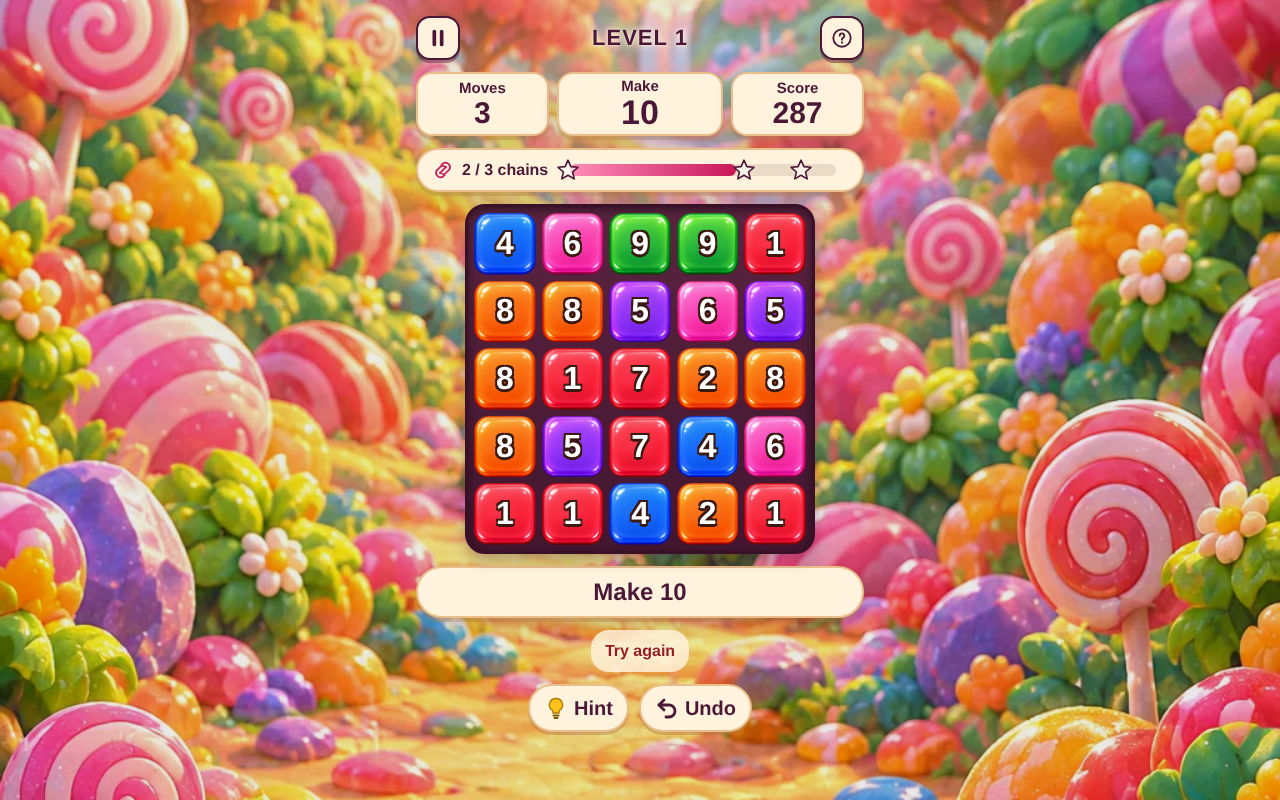
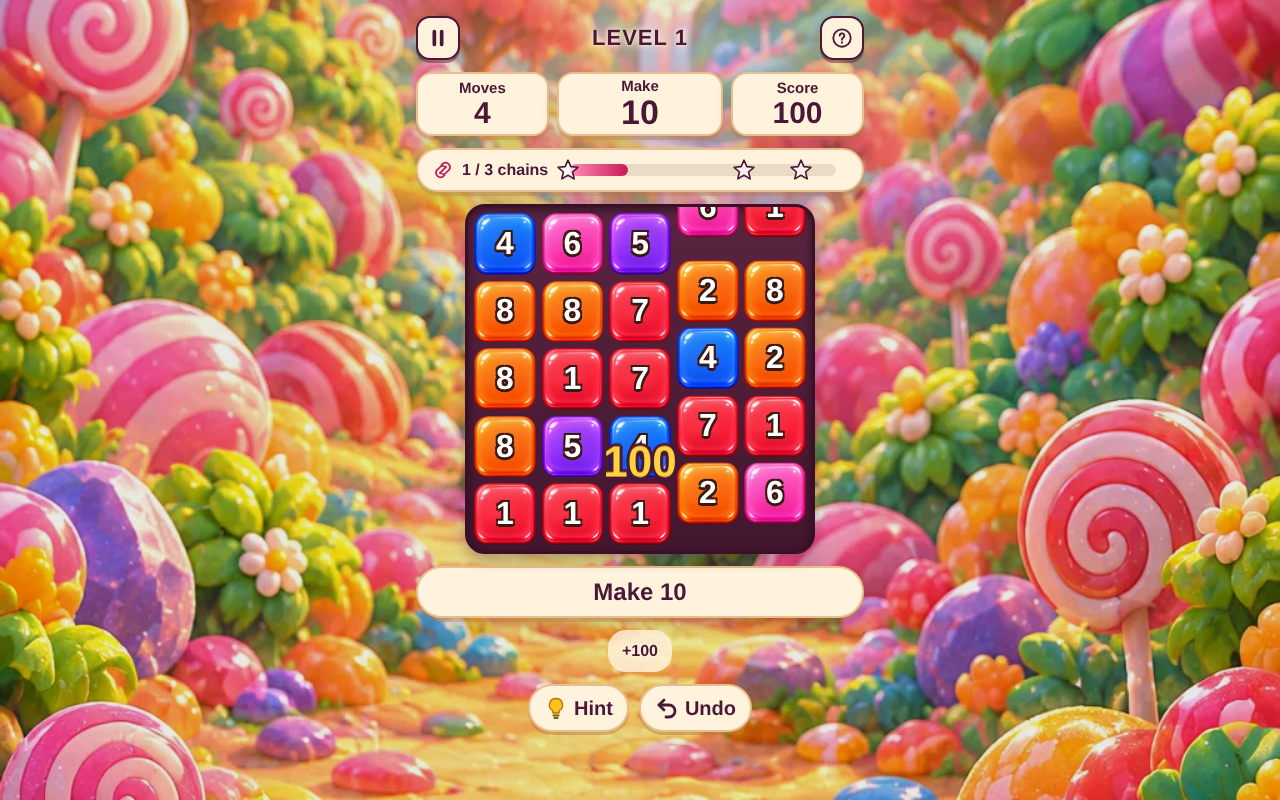
math-crush: night 5
H-003-v1 phases A, B and D (C partly): sticker removal, journey map, motion pass,
Journey preview with shaped boards, jelly, changing targets and multiplication pilots.
Report: design-studio/games/math-crush/feedback/FB-006-journey.md

Claude-Session: https://claude.ai/code/session_014Xx1rMRtaq4rBof9ijfaBG

diff --git a/design-studio/games/math-crush/feedback/FB-006-journey.md b/design-studio/games/math-crush/feedback/FB-006-journey.md
@@ -1,0 +1,47 @@
+# FB-006 — Math Crush
+Kind: completion-report
+Packet: H-003-v1 ("a sweeter journey", MC-020–028), frozen revision `e030f63`, read in place. `sha256sum -c SHA256SUMS.txt` clean and `python3 -B data/validate.py` all PASS before building.
+Code commit / private playable URL: night 5 commits on main from `62170ac` (brief) to the `math-crush: night 5` commit; runtime baseline `1d3543c`. Playable: https://claude.ai/artifact/D5kYHgsZbouMh73g1VMLTj (private, version 7).
+
+Phases: **A, B and D implemented; C partly** (real-engine replay and automated QA done; the owner playtest that decides promotion is still needed). Journey stays a separate, secondary "Journey · New · preview" entry on Home. Classic stays the main Play button and is unchanged apart from the sticker removal and the new map.
+
+Requirement IDs and implemented/deferred/failed results:
+
+| ID | Result | What was done |
+|---|---|---|
+| MC-020 stickers | Implemented | No Stickers button, Home badge, Pause "Sticker book", collection, toasts, award logic, announcements, `__qa` book action or sticker assets in the published build. Stored `matchV3.stickers`/`badge` stay verbatim as inert data. Tested on fresh and legacy saves, on a win, and on a 7-candy chain with a combo. |
+| MC-021 authored variety | Implemented | `data/levels.json` schema 3 inlined verbatim (a test compares it to the packet file). Separate `journey-v1` content with stable IDs 1–12. Each level has its own on-board cue at its opening witness; the cue only shows while the opening board is untouched, never forces a move and never gates play. Free wrong answers on L1–3 and L11. Classic data unchanged. |
+| MC-022 shapes and jelly | Implemented | Active masks with voids as `null` cells. Voids break adjacency and can't be touched. Segmented gravity runs per column segment, so nothing falls through a void; candies spawning in a lower segment pop in rather than fall. Stripes cross voids; wrapped/combo areas are clipped to active cells. Jelly sits under candies: a halo, a translucent jelly layer on the tile, the count in the objective bar, and a "−N jelly" pop with shards when cleared. Jelly is removed once per patch, never respawns and is never restored by rewards. A jelly win is tested before running out of moves. |
+| MC-023 changing targets | Implemented | The HUD shows the current target and Next, and "Final target" on the last step. The model advances once per valid clear, before the refill. The refill is repaired for the new target. The HUD holds the old target while the clear resolves, slides the new one in after settling, and blocks input during the transition. Undo restores target index, board and RNG together. Reload mid-transition shows the committed target. Help lists all targets. |
+| MC-024 map | Implemented | One vertical scroll of three painted chapters (supplied WebP backdrops, two drifting clouds, sparkles). Live cream path through the SCREENS.md node centres. 64 px numbered nodes with a true mask thumbnail, jelly marks and a × for products. Stars come from that campaign's own records. Raspberry frontier node with a breathing you-are-here pin; muted locked nodes with the supplied lock. Sticky chapter label follows scroll. Bottom Continue shelf names the exact level and campaign. A chapter reveal ribbon with confetti plays once (600 ms, never blocks). Unlocked nodes start immediately. Classic uses the same chapters with its own contents (full boards, no jelly or ×). |
+| MC-025 motion | Implemented | Selection pulse, chain pop staggered in path order, stripe row/column sweep (row-blast.svg), wrapped burst, combo areas, jelly crack and shards, distance-based fall with a land bounce, 250 ms score count-up, 180 ms target slide. Idle effects (glint every 5–8 s, special wobble, clouds, pin breath) are cosmetic only: they never touch gameplay RNG or the model, and they stop while selecting, in dialogs and when hidden. Synthesized sounds per MOTION.md (≤ 4 voices); one haptic pulse per commit. A new "Reduce motion" switch follows the OS until changed. Input lock is 480 ms for an ordinary clear, 560 ms for a combo and 660 ms with a target change, all ≤ 900 ms. Pause or hiding the page resolves the presentation at once. Frame grabs at 60/220/420/700 ms are in `qa/screens/phone-m-*`. |
+| MC-026 multiplication (phase D) | Implemented, behind the after-10 unlock | L11 ×12 and L12 18→12→24. Persistent × label, "Multiply to make 12", × in the expression, "Score ×1.5" bonus chip. Product pruning keeps a trailing 1 legal, there is no eval, and repair injects the smallest factor pair. Specials are off and there are no mixed operators. Finishing preview 10 unlocks 11 (stored even before phase D, so no replay needed); the result card says "Next: Multiplication preview". `JOURNEY_PHASE_D` switches 11–12 back to "Coming later". |
+| MC-027 saves and usability | Implemented | New `matchJourney` namespace with `journey-v1:<id>` records, its own unlocks, active attempt, archive and lessons. Classic `matchV3` is never written by Journey. A night-4 save loads verbatim and its core-v1 attempt resumes exactly. An unknown journey schema is preserved under `matchJourneyUnknown`. An older-version journey attempt is archived verbatim with "Restart level N" and is not called damaged. Blocked storage still plays in memory. 360×640 layout: board 280, compact HUD, everything above the fold, no target under 44 px. The keyboard cursor skips voids. |
+| MC-028 verification and report | Done (this file) | See the commands below. |
+
+Commands actually run and outcomes:
+- Packet: `sha256sum -c SHA256SUMS.txt` all OK; `python3 -B data/validate.py` 12/12 PASS plus boundary checks.
+- `node games/math-crush/qa/journey-tests.mjs`: **82/82**. All 12 witnesses replayed through the real engine with full snapshot equality against the oracle (board, specials, jelly, RNG, moves, made, score, status, events). Production also checks IDs are unique. Five gravity/repair fixtures computed with `model.py settle()` (ring and hourglass gravity, additive repair, factor-pair repair, changing-target repair) match exactly. The QA.md boundaries are covered: duplicate, diagonal, across-hole and void touch, ninth tile, 2+3≠10, 2×3≠12, 1×3×4=12, charged invalid on the final move, last-move jelly win, overlapping blasts, reward on jelly, changing-target repair, old-target chain after the transition, reload mid-animation, quit preview then resume Classic, and node 11 opening after preview 10. Map, motion and 360×640 input checks are included.
+- `node games/math-crush/qa/engine-tests.mjs` (Classic): **86/86**. Sticker tests replaced by MC-020 removal tests; three-star routes still reachable on all 12 Classic levels.
+- `node tools/qa/playtest.mjs games/math-crush/index.html`: all checks passed, 24 levels solved (Classic 12 + Journey 12; Journey `solve()` uses the packet routes from a fresh start).
+- `node games/math-crush/qa/screens.mjs`: phone, 360×640, 1280×800 and 150 % text, 36 states each plus motion frames; no layout problems.
+- Separate reviewer agent: "ship with fixes" (see below).
+
+Phone/desktop screenshots and interaction evidence: `games/math-crush/qa/screens/` (`*-v0x` maps, `*-j0x/j1x` journey levels, `*-w0x` results, `phone-m-*` motion frames) and `qa/journey-tests.json`, `qa/engine-tests.json`. Methods: automated Chromium (`__qa` and real mouse/keyboard input) plus the reviewer agent's mouse, tap-mode and keyboard play. No human played the game.
+
+Deviations, unresolved questions and proposed resolution:
+- **Reviewer findings that conflict with the packet; not changed tonight (designer/owner call):**
+  1. Board shapes feel barely different: hourglass removes 2 cells, ring removes 1. Proposal: larger voids, islands or corridors in a later packet.
+  2. No difficulty curve: targets 8–15, moves = quota + 2 throughout; a shortest-chain bot wins every level, mostly with 1 star. Proposal: fewer spare moves, bigger targets later, minimum chain lengths.
+  3. Multiplication 1-padding: 3 × 1 × 4 = 12 scores like a 3-chain, so high multiplication scores are easy. RULES.md asks to watch this in playtest before restricting; it shows up immediately.
+  4. Journey is the secondary entry. The reviewer wants it to be the main path; HANDOVER/SCREENS require it to stay opt-in until owner acceptance.
+- Reviewer findings fixed: jelly was hard to read (now a full translucent jelly layer plus a stronger halo); "−N jelly" now shows even when a blast bonus also shows; win confetti no longer carries into the next attempt.
+- Implementation choices to confirm:
+  - Home's Journey card opens the Journey map rather than starting a level.
+  - A chapter reveal plays once per campaign; Classic gets it too.
+  - Fresh candies in a lower segment pop in instead of falling past the void.
+  - Map captions show for the current node, and on hover or focus for the others.
+  - The input lock after a clear is 480 ms; fast tappers are briefly ignored.
+- Not run: real device, sound/haptics by ear, screen reader, human difficulty.
+
+Owner acceptance: pending (owner playtest decides whether Journey replaces Classic as the default)

diff --git a/games/math-crush/NIGHTS.md b/games/math-crush/NIGHTS.md
@@ -1,5 +1,30 @@
 # Math Crush — night log
 
+## Night 5 — 2026-10-29
+
+**Job:** approved hand-over not yet built: `design-studio/games/math-crush/handovers/H-003-v1` ("a sweeter journey", MC-020–028), packet
+frozen at `e030f63`, checksums and validator clean. No pending board notes, nothing queued.
+
+**Shipped:**
+- Sticker system removed everywhere (stored data kept inert).
+- New three-chapter scrolling map (painted regions, live path, real nodes with board thumbnails, frontier pin, Continue shelf) for Classic and Journey.
+- **Journey preview** (Home, secondary): 12 authored levels with hourglass/ring boards, jelly objectives, changing targets and two
+  multiplication pilots (unlocked after level 10). It has its own save namespace; Classic is unchanged.
+- Motion pass: chain pop, stripe sweep, wrapped burst, jelly shards, fall and bounce, score count-up, target slide, calm idle; a Reduce motion switch.
+
+**QA:** playtest all checks passed (24 levels) · journey tests 82/82 (all 12 packet witnesses replay exactly in the real engine) · classic tests
+86/86 · screen audit clean (4 sizes) · 2 rounds.
+
+**Reviewer:** ship with fixes. The twist holds, and long chains on jelly levels are the best moment; levels are short and easy. Fixed: jelly
+readability, jelly count alongside blast bonus, leftover confetti. Not fixed (packet-defined, in FB-006): small shape changes, flat difficulty,
+1-padding in multiplication, Journey staying secondary.
+
+**Assumptions:** the Journey card opens the Journey map; the reveal ribbon also plays on Classic; lower-segment refills pop in; input lock 480 ms.
+
+**Questions for Benji:** see the board report.
+
+**Play:** https://claude.ai/artifact/D5kYHgsZbouMh73g1VMLTj
+
 ## Night 4 — 2026-10-29
 
 **Job:** owner scope change FB-004 (Benji, 28 Oct: "remove the hammer and the sugar rush and the time challenge"), recorded by

diff --git a/games/math-crush/BRIEF.md b/games/math-crush/BRIEF.md
@@ -15,7 +15,7 @@ artifact: https://claude.ai/artifact/D5kYHgsZbouMh73g1VMLTj
 > they disappear and either new ones come or you should empty the board.
 
 A candy-crush-feeling board where you drag chains of touching numbers that add up to the target; longer
-chains score more and leave striped and wrapped candies. (Started as three prototypes — Match, Equation,
+chains score more and leave striped and wrapped candies. A Journey preview adds shaped boards, jelly, changing targets and multiplication. (Started as three prototypes — Match, Equation,
 Clear — and Benji picked Candy Match.)
 
 **Owner decision, 22 Oct 2026:** Benji chose Candy Match as the game and asked to remove the other two
